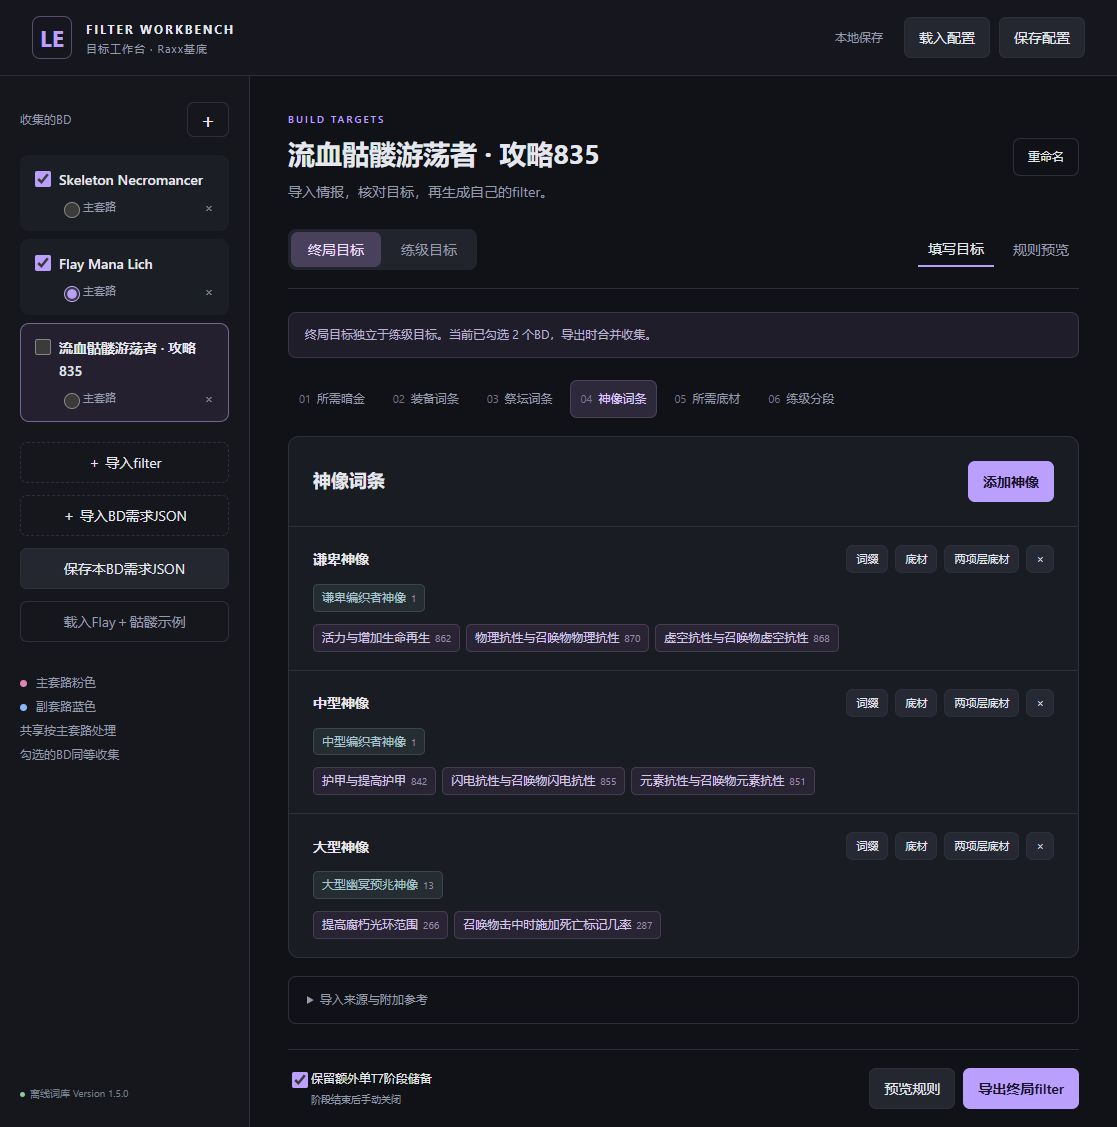
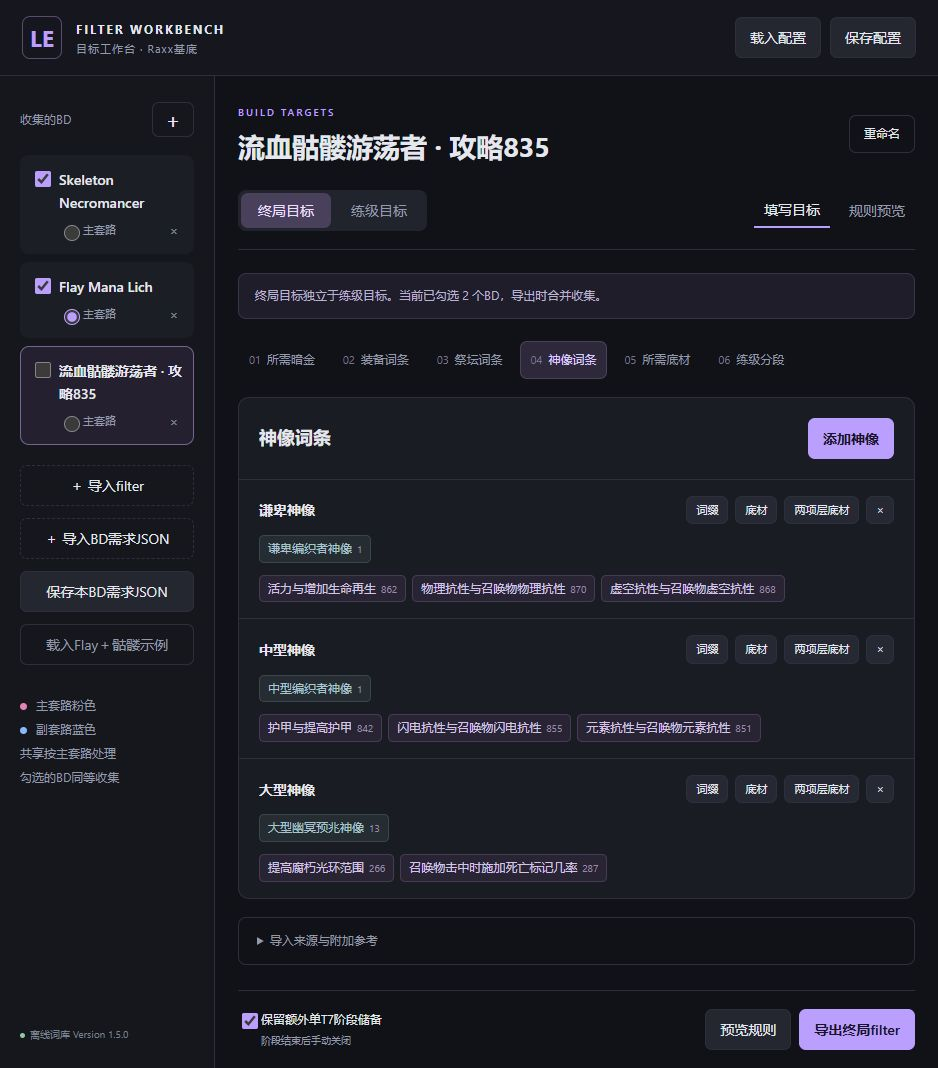
Simplify target descriptions and show special affix references

diff --git a/tool/web/app.js b/tool/web/app.js
@@ -3,12 +3,12 @@ const esc = value => String(value ?? '').replace(/[&<>"']/g, c => ({'&':'&amp;',
 const copy = value => JSON.parse(JSON.stringify(value));
 const STORAGE = 'le-filter-workbench-v1';
 const categories = [
-  ['uniques','所需暗金','用名字选择目标；0LP保留，高潜能仍按四档提示。','选择暗金'],
-  ['equipment','装备词条','每个部位独立填写。至少两个目标时，一条整池条件识别双目标T7。','添加部位'],
-  ['altars','祭坛词条','按祭坛底材绑定目标；至少一项，阶数不限。','添加祭坛'],
-  ['idols','神像词条','','添加神像'],
-  ['bases','所需底材','独立收集制作底材，不给装备T7素材强加同底材要求。','添加底材'],
-  ['leveling_slots','练级分段','保留Raxx的等级、阶数与数量门槛；目标独立填写，空白表示沿用原示例。','']
+  ['uniques','所需暗金','选择暗金'],
+  ['equipment','装备词条','添加部位'],
+  ['altars','祭坛词条','添加祭坛'],
+  ['idols','神像词条','添加神像'],
+  ['bases','所需底材','添加底材'],
+  ['leveling_slots','练级分段','']
 ];
 const levelNames = {63:'武器／副手T6过渡',64:'防具／首饰T6过渡',75:'早期腐化装备',128:'过渡神像：两项目标',129:'过渡神像：一项目标',135:'开荒神像',136:'开荒武器底材',137:'开荒副手底材',138:'开荒头盔底材',139:'开荒胸甲底材',140:'开荒腰带底材',141:'开荒鞋子底材',142:'开荒项链底材',143:'开荒戒指底材',144:'开荒手套底材',145:'开荒遗物底材',146:'T3生命／物抗拆解',147:'T3移速／冷却拆解',148:'T3抗性拆解',149:'T2生命／物抗',150:'T2移速／冷却',151:'T2抗性',152:'早期弓箭词条',153:'早期近战武器词条',154:'早期施法武器词条',156:'早期遗物底材',157:'早期法器底材',158:'早期箭袋底材',159:'早期盾牌底材',160:'早期戒指底材',161:'早期项链底材'};
 let catalog, examples, config, activeId, mode='endgame', category='uniques', view='editor', selection, imported, generated, levelId=136, toastTimer;
@@ -47,8 +47,7 @@ function render(){
   $('profile-note').textContent=mode==='endgame'?'终局目标独立于练级目标。当前已勾选 '+config.builds.filter(b=>b.enabled).length+' 个BD，导出时合并收集。':'练级目标独立填写；Raxx原有等级分段保持。第6项可逐段替换原示例，尚未填写的部分沿用Raxx。';
   $('categories').innerHTML=categories.map(([key,title],i)=>`<button data-category="${key}" class="${category===key?'active':''}"><span class="step-num">0${i+1}</span>${title}</button>`).join('');
   const item=categories.find(c=>c[0]===category);
-  $('category-title').textContent=item[1];$('category-description').textContent=item[2];$('add-target').textContent=item[3];$('add-target').hidden=!item[3];
-  $('category-description').hidden=!item[2];
+  $('category-title').textContent=item[1];$('add-target').textContent=item[2];$('add-target').hidden=!item[2];
   $('extra-t7').checked=config.extra_t7;$('export-xml').textContent=`导出${mode==='endgame'?'终局':'练级'}filter`;
   renderTargets();renderSource();
 }
@@ -57,14 +56,13 @@ function renderTargets(){
   const data=profile()[category];
   if(!data.length){$('targets').innerHTML=`<div class="empty"><strong>为这个BD选择${categories.find(c=>c[0]===category)[1]}</strong>从列表搜索选择，或导入filter填入目标。</div>`;return;}
   if(category==='uniques'){
-    $('targets').innerHTML=`<div class="target-row"><div class="chips">${chips(data,'uniques')}</div><p class="reference">已选${data.length}项。可用中文、英文或ID搜索并增删。</p></div>`;return;
+    $('targets').innerHTML=`<div class="target-row"><div class="chips">${chips(data,'uniques')}</div></div>`;return;
   }
   $('targets').innerHTML=data.map((g,i)=>{
     const commands=`${category!=='bases'?`<button data-pick="affixes" data-index="${i}">词缀</button>`:''}<button data-pick="bases" data-index="${i}">底材</button>${category==='idols'?`<button data-pick="pair_bases" data-index="${i}">两项层底材</button>`:''}<button data-delete="${i}" aria-label="移除此分组">×</button>`;
     const bases=g.bases.length?chips(g.bases,'bases',g.type):'<small>底材不限</small>';
-    const note=category==='equipment'?`${g.affixes.length}个目标；单目标T7${g.affixes.length>=2?'＋整池至少两目标T7':''}。`:'';
-    const extra=[...(g.enchanted||[]),...(g.corrupted||[])];
-    return `<div class="target-row"><div class="row-heading"><strong>${esc(typeName(g.type))}</strong><div class="row-actions">${commands}</div></div><div class="chips">${bases}</div>${category!=='bases'?`<div class="chips" style="margin-top:12px">${g.affixes.length?chips(g.affixes,'affixes'):'<small>尚未填写词缀；此组不会生成目标规则</small>'}</div>`:''}${note?`<p class="reference">${esc(note)}</p>`:''}${extra.length?`<p class="reference">附魔／腐化参考，不计入普通目标：${esc(extra.map(id=>`${label('affixes',id)} (${id})`).join('、'))}</p>`:''}</div>`;
+    const references=category==='bases'?'':[['enchanted','附魔'],['corrupted','腐化']].filter(([key])=>g[key]?.length).map(([key,title])=>`<div class="chips" style="margin-top:12px"><small>${title}参考</small>${chips(g[key],'affixes')}</div>`).join('');
+    return `<div class="target-row"><div class="row-heading"><strong>${esc(typeName(g.type))}</strong><div class="row-actions">${commands}</div></div><div class="chips">${bases}</div>${category!=='bases'?`<div class="chips" style="margin-top:12px">${g.affixes.length?chips(g.affixes,'affixes'):'<small>未选择词缀</small>'}</div>`:''}${references}</div>`;
   }).join('');
 }
 function renderSource(){
@@ -124,7 +122,7 @@ function pickGroup(field,index){
 }
 function showGroupDialog(){
   const types=category==='altars'?['IDOL_ALTAR']:category==='idols'?Object.keys(catalog.types).filter(t=>t.startsWith('IDOL_')&&t!=='IDOL_ALTAR'):catalog.equipment_types;
-  $('group-title').textContent=categories.find(c=>c[0]===category)[3];
+  $('group-title').textContent=categories.find(c=>c[0]===category)[2];
   $('group-type').innerHTML=types.map(t=>`<option value="${t}">${esc(typeName(t))} ${esc(t.startsWith('IDOL_')&&t!=='IDOL_ALTAR'?t.slice(5):'')}</option>`).join('');
   $('group-dialog').showModal();
 }

diff --git a/tool/web/index.html b/tool/web/index.html
@@ -21,13 +21,13 @@
     <div class="sidebar-bottom"><span class="online-dot"></span>离线词库 <span id="catalog-version"></span></div>
   </aside>
   <main>
-    <div class="main-heading"><div><p class="eyebrow">BUILD TARGETS</p><h1 id="build-title">目标配置</h1><p class="muted">导入情报，核对目标，再生成自己的filter。</p></div><button id="rename-build">重命名</button></div>
+    <div class="main-heading"><div><p class="eyebrow">BUILD TARGETS</p><h1 id="build-title">目标配置</h1></div><button id="rename-build">重命名</button></div>
     <div class="workspace-bar"><div class="segmented"><button data-mode="endgame" class="active">终局目标</button><button data-mode="leveling">练级目标</button></div><div class="view-tabs"><button data-view="editor" class="active">填写目标</button><button data-view="preview">规则预览</button></div></div>
     <div id="editor">
       <div id="profile-note" class="notice"></div>
       <nav id="categories" class="category-tabs"></nav>
       <section class="panel">
-        <div class="panel-heading"><div><h2 id="category-title"></h2><p id="category-description" class="muted"></p></div><button id="add-target" class="primary"></button></div>
+        <div class="panel-heading"><div><h2 id="category-title"></h2></div><button id="add-target" class="primary"></button></div>
         <div id="targets"></div>
       </section>
       <details id="source-details" class="source-panel"><summary>导入来源与附加参考</summary><div id="source-info"></div></details>

diff --git a/docs/WORKING_MEMO.md b/docs/WORKING_MEMO.md
@@ -4,6 +4,7 @@
 
 ## 最新交付：本地目标工作台
 
+- 最新界面精简扩展到所有类别栏目介绍、装备每组“几个目标／单T7／两T7”和暗金操作说明，删除BD标题下引导语。附魔／腐化参考改为独立标签显示，护身符1085／1086仍存corrupted，不加入普通池。05只显示独立普通装备底材，不展示源底材规则泛用附加词缀池；真实底材R82沿用NORMAL／MAGIC／RARE／EXALTED，无词缀、等级、FP门槛。当前Guide835只有3种（头盔14、手套12、遗物18），旧Skeleton Strict5种为双手斧8、头盔15、鞋11、手套12、戒指9；数量来自对应来源，并非5项上限。盾牌80来自Guide公共副手栏26／80，经装备类型可出范围交集留下80；它是共用副手表的类型映射，不是单独盾牌攻略条目。
 - 用户要求精简神像编辑界面：删除栏目的一项／两项声音说明，以及每组阶数、声音、“两项底材”的说明行；保留目标、底材与编辑按钮。这是显示文字修改，需求JSON和生成逻辑不变。来源段为source追溯备注，用户本轮询问含义，未要求删除。
 - 已建立共通“需求JSON”，见REQUIREMENTS_FORMAT；一个BD／一个阶段，五类targets与可选source，剥离主副身份、声音、LP、T7与等级门槛。`tool/requirements.py`校验及互转；网页“导入BD需求JSON”“保存本BD需求JSON”与右上整套配置备份分开。同id仅替换该阶段五类目标／来源，保留另一个阶段、勾选和R分段覆盖；附魔／腐化及两项层底材范围保留。
 - 攻略835可正常读取，包括公共装备／神像表和动态七变体。原链接key用lz-string 1.5.0的`decompressFromEncodedURIComponent(key.slice(1))`解码：A为词缀ID；U六位结果末三位为uniqueID，含套装；I十位中第2–4位为类型、第5–7位为底材。已解码来源快照保存原href／key／decoded及练级8目标、5底材和七变体索引；运行重建不需要lz-string／网络／.cache。

diff --git a/docs/TOOL_GUIDE.md b/docs/TOOL_GUIDE.md
@@ -35,6 +35,8 @@ python -X utf8 tool/server.py --open
 
 附魔与腐化另存参考。普通神像计数只使用冻结词库`specialAffixType`为0／5的源词缀；897属于附魔4、腐化为6，两者都不凑普通一项／两项。物品可以带附魔或腐化，不要求物品总词缀数为2。来源池有三项目标时，仍只生成一条“整个池至少两项”，不枚举配对。
 
+附魔／腐化参考在对应部位下单独显示为词缀标签。例如攻略835护身符的1085／1086显示在“腐化参考”，945仍是普通目标。05只列独立收集的普通装备底材，采用Raxx原R82：普通／魔法／稀有／崇高，未加词缀、等级或锻造潜能门槛；即使没有02的目标词缀，该底材也可独立保留。暗金用01，祭坛与神像的底材各在03／04。项目数量来自当前BD来源，没有5项限制。
+
 底材的一项层／两项层范围保留来源差异。内置Flay示例两层均收Weaver／Lagon，这是之前明确审阅的定制；再次导入原Strict会先保留它自己的底材范围，可在界面修改。
 
 ## 练级接口
